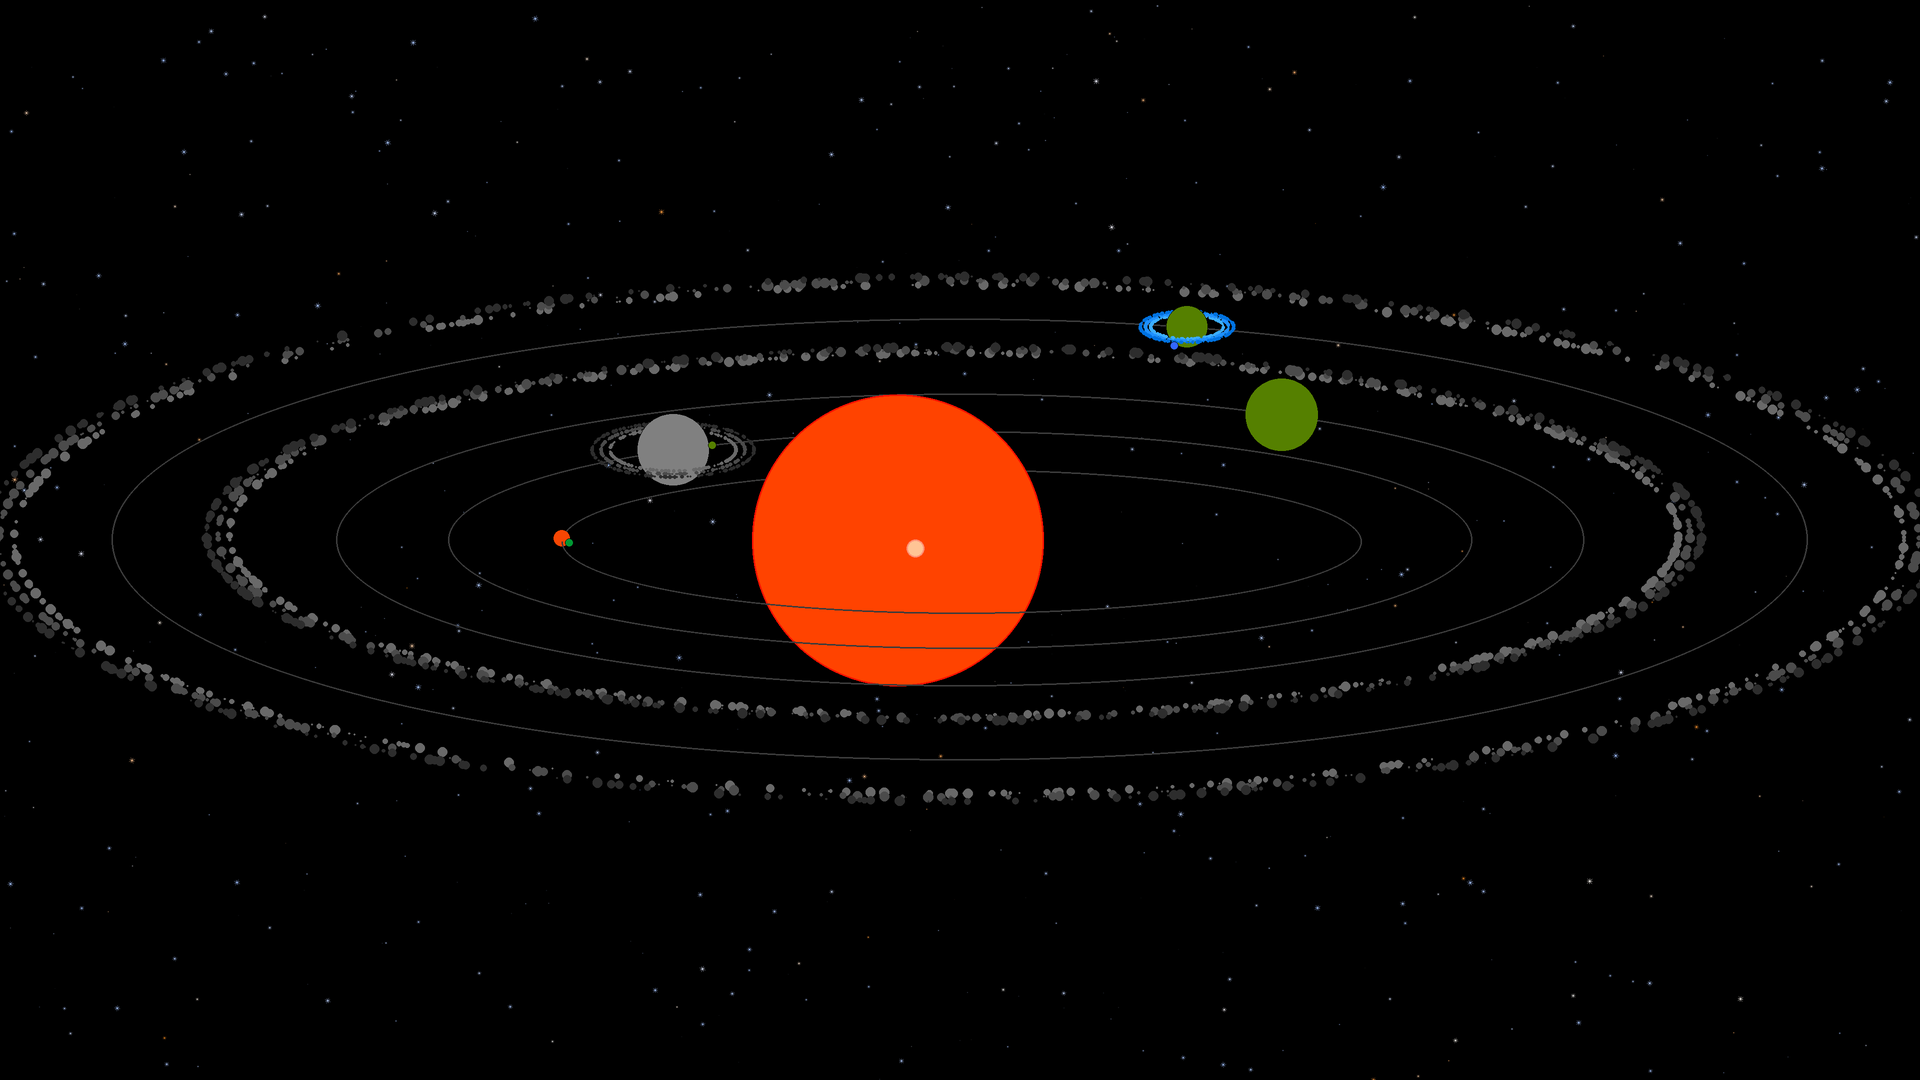
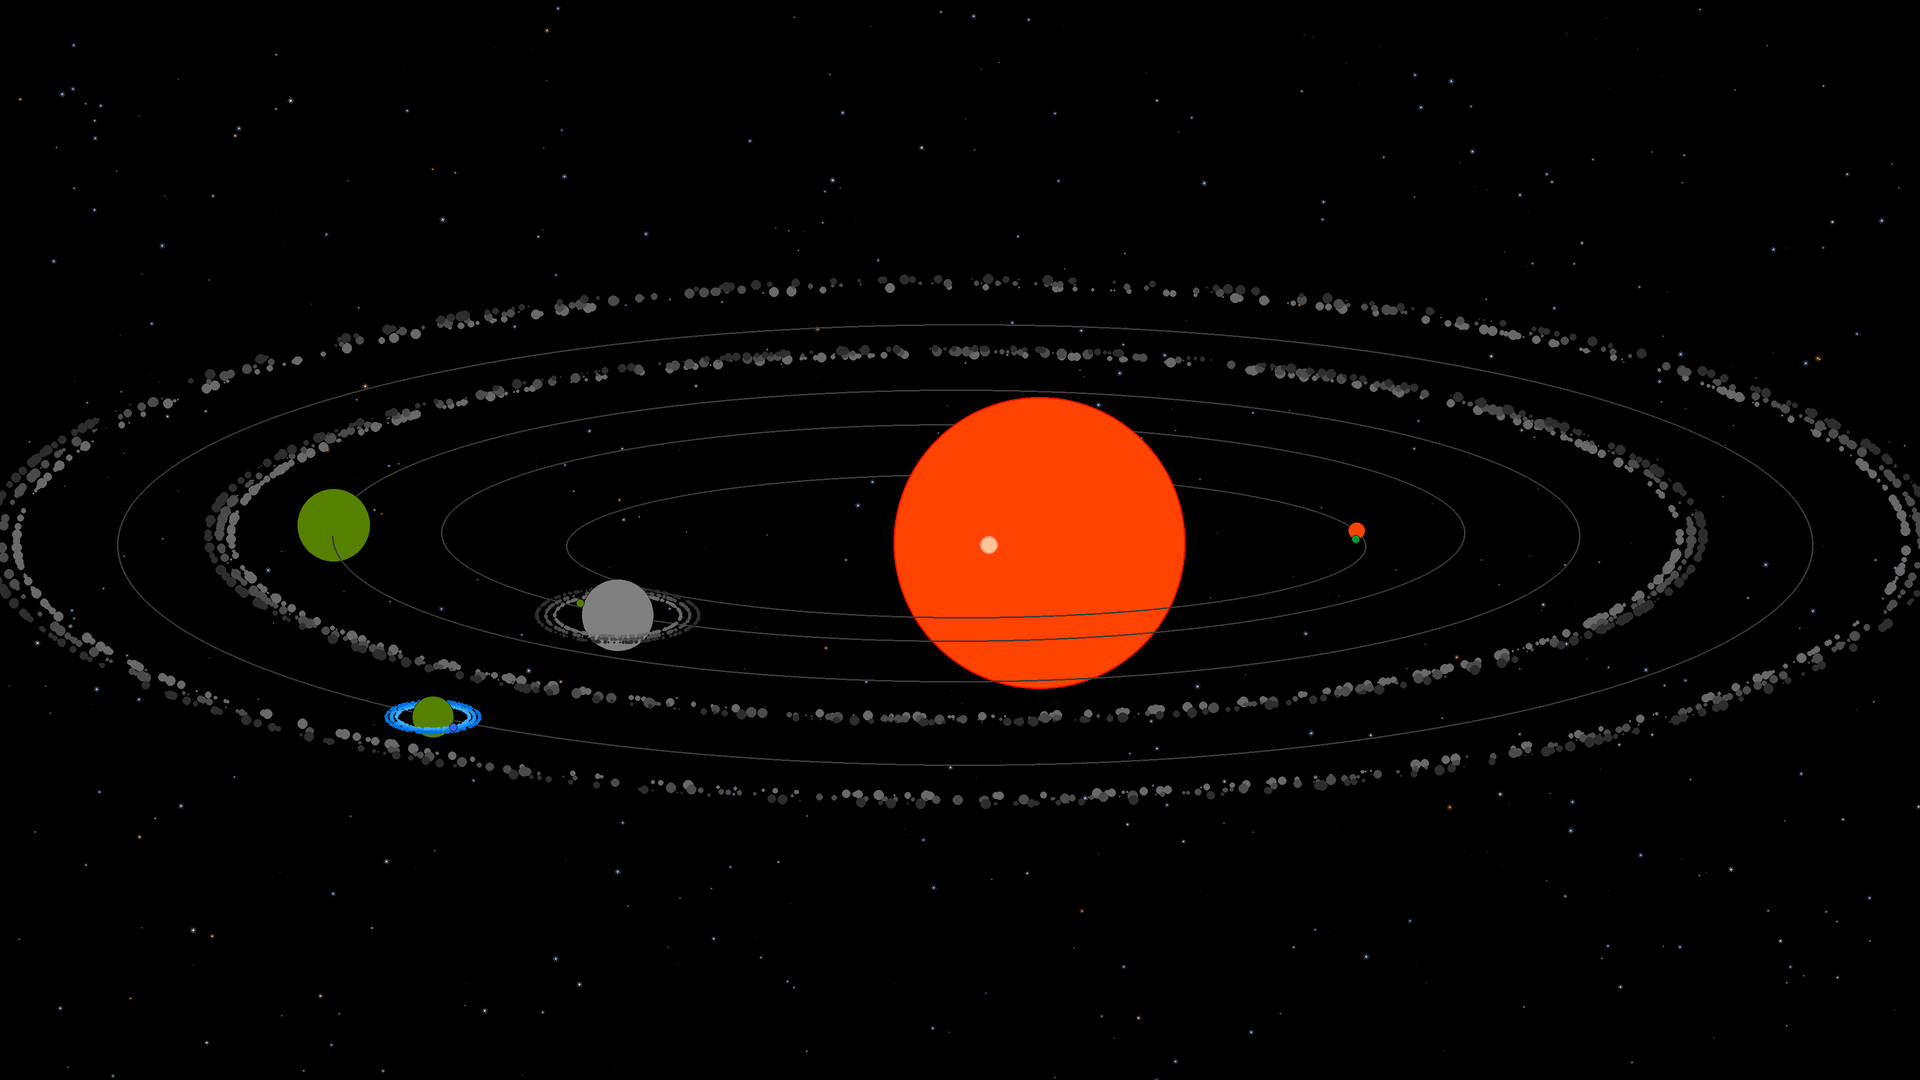
DistantStars.py - small changes in formatting ConstalationDreamer.py - removed useless code ConstalationParser.py - added new methods for more meaningful work, changed masking process and simplified surrounding process, info_store fill rebased here
GeneralInformation.py - color palettes for different planets
PlanetBiom.py - many modifications, elevation and moisture changed from float to uint, modification value for elevation

diff --git a/ConstalationParser.py b/ConstalationParser.py
@@ -1,4 +1,4 @@
-from numpy import log as nlog, random
+from numpy import log as nlog, random, array as nparray
 from GeneralInformation import GeneralStorage
 from DistantStars import DistantStar
 
@@ -11,27 +11,42 @@ class ConstalationParser:
 
     # slovnik s maskami jednotlivych casti, cislo na druhem miste udava pocet nul zprava
     masks = {
-        "suns":     (int(0xf0000000000000000000000000000000000000000000000000),49),
-        "s0c":      (int(0x0ffff000000000000000000000000000000000000000000000),45),
-        "s1c":      (int(0x000ffff0000000000000000000000000000000000000000000),43),
-        "s2c":      (int(0x000000ffff0000000000000000000000000000000000000000),40),
-        "orba":     (int(0x0000000000fff0000000000000000000000000000000000000),39),
-        "orbb":     (int(0x0000000000000fff0000000000000000000000000000000000),34),
-        "step":     (int(0x0000000000000000fff0000000000000000000000000000000),31),
-        "distant_stars": (int(0x0000000000000000000fffff00000000000000000000000000),26),
-        "objs":     (int(0x000000000000000000000000f0000000000000000000000000),25),
-        "obj0":     (int(0x0000000000000000000000000ff00000000000000000000000),23),
-        "obj1":     (int(0x000000000000000000000000000ff000000000000000000000),21),
-        "obj2":     (int(0x00000000000000000000000000000ff0000000000000000000),19),
-        "obj3":     (int(0x0000000000000000000000000000000ff00000000000000000),17),
-        "obj4":     (int(0x000000000000000000000000000000000ff000000000000000),15),
-        "obj5":     (int(0x00000000000000000000000000000000000ff0000000000000),13),
-        "obj6":     (int(0x0000000000000000000000000000000000000ff00000000000),11),
-        "obj7":     (int(0x000000000000000000000000000000000000000ff000000000),9),
-        "obj8":     (int(0x00000000000000000000000000000000000000000ff0000000),7),
-        "obj9":     (int(0x0000000000000000000000000000000000000000000ff00000),5),
-        "obj10":    (int(0x000000000000000000000000000000000000000000000ff000),3),
-        "obj11":    (int(0x00000000000000000000000000000000000000000000000ff0),1),
+        "suns":     (int(0xf),49),
+        "s0c":      (int(0xffff),45),
+        "s1c":      (int(0xffff),43),
+        "s2c":      (int(0xffff),40),
+        "orba":     (int(0xfff),39),
+        "orbb":     (int(0xfff),34),
+        "step":     (int(0xfff),31),
+        "distant_stars": (int(0xfffff),26),
+        "objs":     (int(0xf),25),
+        "obj0":     (int(0xff),23),
+        "obj1":     (int(0xff),21),
+        "obj2":     (int(0xff),19),
+        "obj3":     (int(0xff),17),
+        "obj4":     (int(0xff),15),
+        "obj5":     (int(0xff),13),
+        "obj6":     (int(0xff),11),
+        "obj7":     (int(0xff),9),
+        "obj8":     (int(0xff),7),
+        "obj9":     (int(0xff),5),
+        "obj10":    (int(0xff),3),
+        "obj11":    (int(0xff),1),
+    }
+
+    color_masks = {
+        "obj0":     [19, 17, 11, 27],
+        "obj1":     [13, 25, 2, 38],
+        "obj2":     [43, 31, 28, 12],
+        "obj3":     [36, 0, 24, 42],
+        "obj4":     [9, 35, 34, 37],
+        "obj5":     [8, 16, 32, 26],
+        "obj6":     [6, 5, 14, 29],
+        "obj7":     [32, 22, 18, 3],
+        "obj8":     [20, 10, 30, 40],
+        "obj9":     [15, 23, 1, 4],
+        "obj10":    [38, 33, 21, 7],
+        "obj11":    [39, 41, 19, 8],
     }
 
     bioms = [
@@ -79,10 +94,15 @@ class ConstalationParser:
             self.hexadecimal_representation = int(str(hex(self.hexadecimal_representation))[:52], 16)
             self.hexadecimal_length = len(hex(self.hexadecimal_representation)) - 2
         # print(int(str(hex(self.hexRepre))[:50],16))
+        # nastav sdilene informace
+        self.info_store.set_general_information(self.read_general_info())
+        self.info_store.set_number_of_objects(self.read_suns_count(), self.read_objects_count())
+        # random displace for planets and orbitals, asteroids...
+        self.info_store.set_rand_pos(random.randint(low=-15, high=15, size=self.info_store.number_of_planets))
 
     def mask_input(self, mask, offset):
         shift = self.hexadecimal_length - offset
-        res = (self.hexadecimal_representation & mask) >> ((self.hexadecimal_length - shift) * 4)
+        res = (self.hexadecimal_representation >> ((self.hexadecimal_length - shift) * 4)) & mask
         return res
 
     # source: https://tannerhelland.com/2012/09/18/convert-temperature-rgb-algorithm-code.html
@@ -164,10 +184,12 @@ class ConstalationParser:
         else:
             return tmp[0][4:8].title()
 
+    def get_object(self, idx):
+        return self.mask_input(*self.masks[f"obj{idx}"])
+
     # precte prislusnou cast a dle ni udela planetu/pas a vrati jako tuple
     def read_object_info(self, idx):
-        info = self.masks[f"obj{idx}"]
-        obj = self.mask_input(*info)
+        obj = self.get_object(idx)
         size, biom, moons, asteroid = 0, 0, 0, 0
         name = f"{self.get_obj_name()}-{idx + 1}"
         biom = self.read_object_biom(idx)
@@ -185,8 +207,7 @@ class ConstalationParser:
         return {"size":size, "biom":biom, "asteroids":asteroid, "moons":moons, "name":name}
 
     def read_moon(self, idx):
-        info = self.masks[f"obj{idx}"]
-        obj = self.mask_input(*info)
+        obj = self.get_object(idx)
         moons = (obj & int(0xf0)) >> 4
         if moons >= 6 and (moons % len(self.bioms)):
             moons = (self.bioms[moons % len(self.bioms)], self.biom_environment[moons % len(self.bioms)])
@@ -195,8 +216,7 @@ class ConstalationParser:
         return moons
 
     def read_rings(self, idx):
-        info = self.masks[f"obj{idx}"]
-        obj = self.mask_input(*info)
+        obj = self.get_object(idx)
         asteroid = obj & int(0x0f)
         # bude mit dany objekt prstenec
         if asteroid >= 8:
@@ -206,8 +226,7 @@ class ConstalationParser:
         return asteroid
 
     def read_object_biom(self, idx):
-        info = self.masks[f"obj{idx}"]
-        obj = self.mask_input(*info)
+        obj = self.get_object(idx)
         biom = ((obj & int(0x3c)) >> 2) % len(self.bioms)
         if biom == 0:
             biom = (self.bioms[biom], self.asteroids[biom % len(self.asteroids)], self.astType[biom % len(self.astType)])
@@ -260,6 +279,16 @@ class ConstalationParser:
             # print(f"({position}), {size}, ({color})")
             self.info_store.add_distant_star(DistantStar(position, size, color))
 
+    # ===========biomy - barvy=======================
+    def return_object_colors(self, idx):
+        shifts = self.color_masks[f"obj{idx}"]
+        resulting_colors = []
+        for i in shifts:
+            color = self.mask_input(0xffffff, i)
+            R, G, B = color & 0xff, (color >> 4) & 0xff, (color >> 8) & 0xff
+            resulting_colors.append(nparray((R, G, B)))
+        resulting_colors.extend([nparray((72, 74, 71)), nparray((250, 250, 250))])
+        return resulting_colors
 
 
 if __name__ == "__main__":
@@ -273,4 +302,6 @@ if __name__ == "__main__":
     # for i in range(par.read_objects_count()):
     #     print(par.read_object_info(i))
     # print(par.read_general_info())
-    par.read_distant_stars()
+    # par.read_distant_stars()
+    # int(0x0000000000000000000000000000000000000000000ff00000),5
+    print(par.return_object_colors(0))

diff --git a/PlanetBiom.py b/PlanetBiom.py
@@ -2,6 +2,9 @@ import numpy as np
 import opensimplex
 from pathlib import Path
 from PIL import Image
+from ConstalationParser import ConstalationParser
+from GeneralInformation import GeneralStorage
+
 
 # TODO: optimise with NUMBA once its released
 class PlanetBiotops:
@@ -62,61 +65,63 @@ class PlanetBiotops:
 
     def filter_textures(self):
         self.terrain *= self.filter
+        self.terrain = np.uint8(np.round(self.terrain * 255))
         self.moisture *= self.filter
+        self.moisture = np.uint8(np.round(self.moisture * 255))
 
         # img = Image.fromarray(np.uint8(self.terrain * 255))
         # img.show()
         # img = Image.fromarray(np.uint8(self.moisture * 255))
         # img.show()
 
-    def fill_final_image(self):
+    def fill_final_image(self, modifier):
         color = np.array((0, 0, 0))
         for y in range(self.terrain.shape[0]):
             for x in range(self.terrain.shape[0]):
-                if self.terrain[y, x] < 0.055:  # really deep OCEAN
+                if self.terrain[y, x] < (14 + modifier):  # really deep OCEAN
                     color = self.colors[0] * 0.25
-                elif self.terrain[y, x] < 0.075:  # deep OCEAN
+                elif self.terrain[y, x] < (19 + modifier):  # deep OCEAN
                     color = self.colors[0] * 0.5
-                elif self.terrain[y, x] < 0.08:  # ocean
+                elif self.terrain[y, x] < (20 + modifier):  # ocean
                     color = self.colors[0]
-                elif self.terrain[y, x] < 0.081:  # BEACH
+                elif self.terrain[y, x] < (21 + modifier):  # BEACH
                     color = self.colors[1] * 0.9
 
                 # hory
-                elif self.terrain[y, x] > 0.17:
-                    if self.moisture[y, x] < 0.38:  # SCORCHED
+                elif self.terrain[y, x] > (43 + modifier):
+                    if self.moisture[y, x] < 97:  # SCORCHED
                         color = self.colors[4] * 0.8
-                    elif self.moisture[y, x] < 0.53:  # BARE
+                    elif self.moisture[y, x] < 135:  # BARE
                         color = np.clip(self.colors[4] * 1.4, 0, 255)
-                    elif self.moisture[y, x] < 0.6:  # TUNDRA
-                        color = np.array(np.uint8((235, 235, 235)))
+                    elif self.moisture[y, x] < 153:  # TUNDRA
+                        color = self.colors[5] * 0.9
                     else:  # snow
-                        color = np.array(np.uint8((250, 250, 250)))
+                        color = self.colors[5]
 
-                elif self.terrain[y, x] > 0.14:
-                    if self.moisture[y, x] < 0.33:  # TEMPERATE_DESERT
+                elif self.terrain[y, x] > (36 + modifier):
+                    if self.moisture[y, x] < 84:  # TEMPERATE_DESERT
                         color = self.colors[2] * 0.8
-                    elif self.moisture[y, x] < 0.66:  # SHRUBLAND
+                    elif self.moisture[y, x] < 168:  # SHRUBLAND
                         color = np.clip(self.colors[3] * 1.25, 0, 255)
                     else:   # TAIGA
                         color = np.clip(self.colors[3] * 1.68, 0, 255)
 
-                elif self.terrain[y, x] > 0.1:
-                    if self.moisture[y, x] < 0.096:  # TEMPERATE_DESERT
+                elif self.terrain[y, x] > (25 + modifier):
+                    if self.moisture[y, x] < 24:  # TEMPERATE_DESERT
                         color = self.colors[2] * 0.8
-                    elif self.moisture[y, x] < 0.316:  # GRASSLAND
+                    elif self.moisture[y, x] < 80:  # GRASSLAND
                         color = np.clip(self.colors[2] * 1.2, 0, 255)
-                    elif self.moisture[y, x] < 0.83:  # TEMPERATE_DECIDUOUS_FOREST
+                    elif self.moisture[y, x] < 212:  # TEMPERATE_DECIDUOUS_FOREST
                         color = self.colors[2] * 0.628
                     else:  # TEMPERATE_RAIN_FOREST
                         color = self.colors[3]
 
                 else:
-                    if self.moisture[y, x] < 0.24:  # SUBTROPICAL_DESERT
+                    if self.moisture[y, x] < 61:  # SUBTROPICAL_DESERT
                         color = np.clip(self.colors[1] * 1.13, 0, 255)
-                    elif self.moisture[y, x] < 0.38:  # GRASSLAND
+                    elif self.moisture[y, x] < 97:  # GRASSLAND
                         color = np.clip(self.colors[2] * 1.2, 0, 255)
-                    elif self.moisture[y, x] < 0.69:  # TROPICAL_SEASONAL_FOREST
+                    elif self.moisture[y, x] < 175:  # TROPICAL_SEASONAL_FOREST
                         color = self.colors[2] * 0.84
                     else:  # TROPICAL_RAIN_FOREST
                         color = self.colors[2] * 0.823
@@ -127,18 +132,24 @@ class PlanetBiotops:
         self.generate_terrain()
         self.generate_moisture()
         self.filter_textures()
-        self.fill_final_image()
+        value = parser.get_object(2) % 23
+        elevation_modifier = value if self.biom_name == "ocean" else value // 2 if self.biom_name == "terran" else -value
+        self.fill_final_image(elevation_modifier)
 
 
 if __name__ == "__main__":
-    for i in [658731, 1, 1000, 3684]:
-        biom = PlanetBiotops(i, 2, [np.array((5, 142, 217)), np.array((242, 208, 169)), np.array((82, 151, 53)),
-                                         np.array((5, 59, 6)), np.array((72, 74, 71))])
+    info = GeneralStorage()
+    parser = ConstalationParser(info)
+    # 658731, 1, 1000, 3684
+    for i in ["Jan Tislický"]:
+        parser.init(i)
+        biom = PlanetBiotops(parser.get_object(2), "terran", parser.return_object_colors(2))
         # 658731
         # biom.generate_moisture()
         # biom.generate_terrain()
         # biom.filter_textures()
         biom.generate_environment()
-        # biom.final_image.show()
-        biom.final_image.save(Path(f"./examples/biom_generator_{i}.png"))
-        print(f"biom number {i} saved")
+        biom.final_image.show()
+        # biom.final_image.save(Path(f"./examples/biom_generator_{i}.png"))
+        # print(f"biom number {i} saved")
+        #[np.array((5, 142, 217)), np.array((242, 208, 169)),np.array((82, 151, 53)), np.array((5, 59, 6)), np.array((72, 74, 71))]

diff --git a/ConstalationDreamer.py b/ConstalationDreamer.py
@@ -20,17 +20,8 @@ class ConstalationDreamer:
         self.parsed_info = conPar.ConstalationParser(self.information_storage)
         # tato cast musi jit pozdeji jinam, hlavne kdyz budu chtit vystavit na web jako jednu z komponent
 
-    def dream_about(self, name):
-        self.parsed_info.init(name)
-        self.information_storage.set_general_information(self.parsed_info.read_general_info())
-        self.information_storage.set_number_of_objects(self.parsed_info.read_suns_count(),
-                                                       self.parsed_info.read_objects_count())
-        # random displace for palnets and orbitals, asteroids...
-        self.information_storage.set_rand_pos(np.random.randint(low=-15, high=15,
-                                                                size=self.information_storage.number_of_planets))
-
     def dream(self, text):
-        self.dream_about(text)
+        self.parsed_info.init(text)
 
         self.generate_space_environment()
 
@@ -93,8 +84,8 @@ if __name__ == "__main__":
         cdreamer.dream(i)
         cdreamer.final_image = cdreamer.draw_tool.final_image.resize(cdreamer.draw_tool.image_size // 2,
                                                                      resample=Image.LANCZOS)
-        # cdreamer.final_image.show()
-        cdreamer.final_image.save(Path(f"./examples/star_system_{'_'.join(i.split(' '))}.png"))
+        cdreamer.final_image.show()
+        # cdreamer.final_image.save(Path(f"./examples/star_system_{'_'.join(i.split(' '))}.png"))
         print(f"finished {i}")
         print("-"*50)
         print()

diff --git a/GeneralInformation.py b/GeneralInformation.py
@@ -1,3 +1,5 @@
+from numpy import array as nparr
+
 class GeneralStorage:
     distant_stars = []
     planets = []
@@ -8,6 +10,12 @@ class GeneralStorage:
     number_of_planets = 10
     number_of_suns = 1
     random_position = None
+    magma_palette = [nparr((255, 37, 0)), nparr((255, 102, 0)), nparr((242, 242, 23)),
+                     nparr((234, 92, 15)), nparr((229, 101, 32)), nparr((38, 38, 38))]
+    barren_palette = [nparr((88, 88, 88)), nparr((96, 96, 96)), nparr((111, 111, 111)),
+                      nparr((128, 128, 128)), nparr((153, 153, 153)),nparr((204, 204, 204))]
+    desert_palette = [nparr((5, 142, 217)), nparr((220, 164, 68)), nparr((231, 169, 103)),
+                      nparr((120, 48, 9)), nparr((90, 17, 7)),nparr((47, 33, 38))]
 
     def set_general_information(self, info):
         self.orbA, self.orbB, self.step = info

diff --git a/DistantStars.py b/DistantStars.py
@@ -37,7 +37,7 @@ class DistantStar(SpaceObject):
         # stred
         self.draw_ellipse(factor, local_canvas)
         # nohodne otoceni a zmenseni na požadovanou velikost
-        auxiliary_image = auxiliary_image.rotate(np.random.randint(low=0,high=89), expand=False)
+        auxiliary_image = auxiliary_image.rotate(np.random.randint(low=0, high=89), expand=False)
         auxiliary_image = auxiliary_image.resize((self.size, self.size), resample=Image.LANCZOS)
         # vlozit do noveho obr
         canvas.alpha_composite(auxiliary_image, tuple(self.position))
